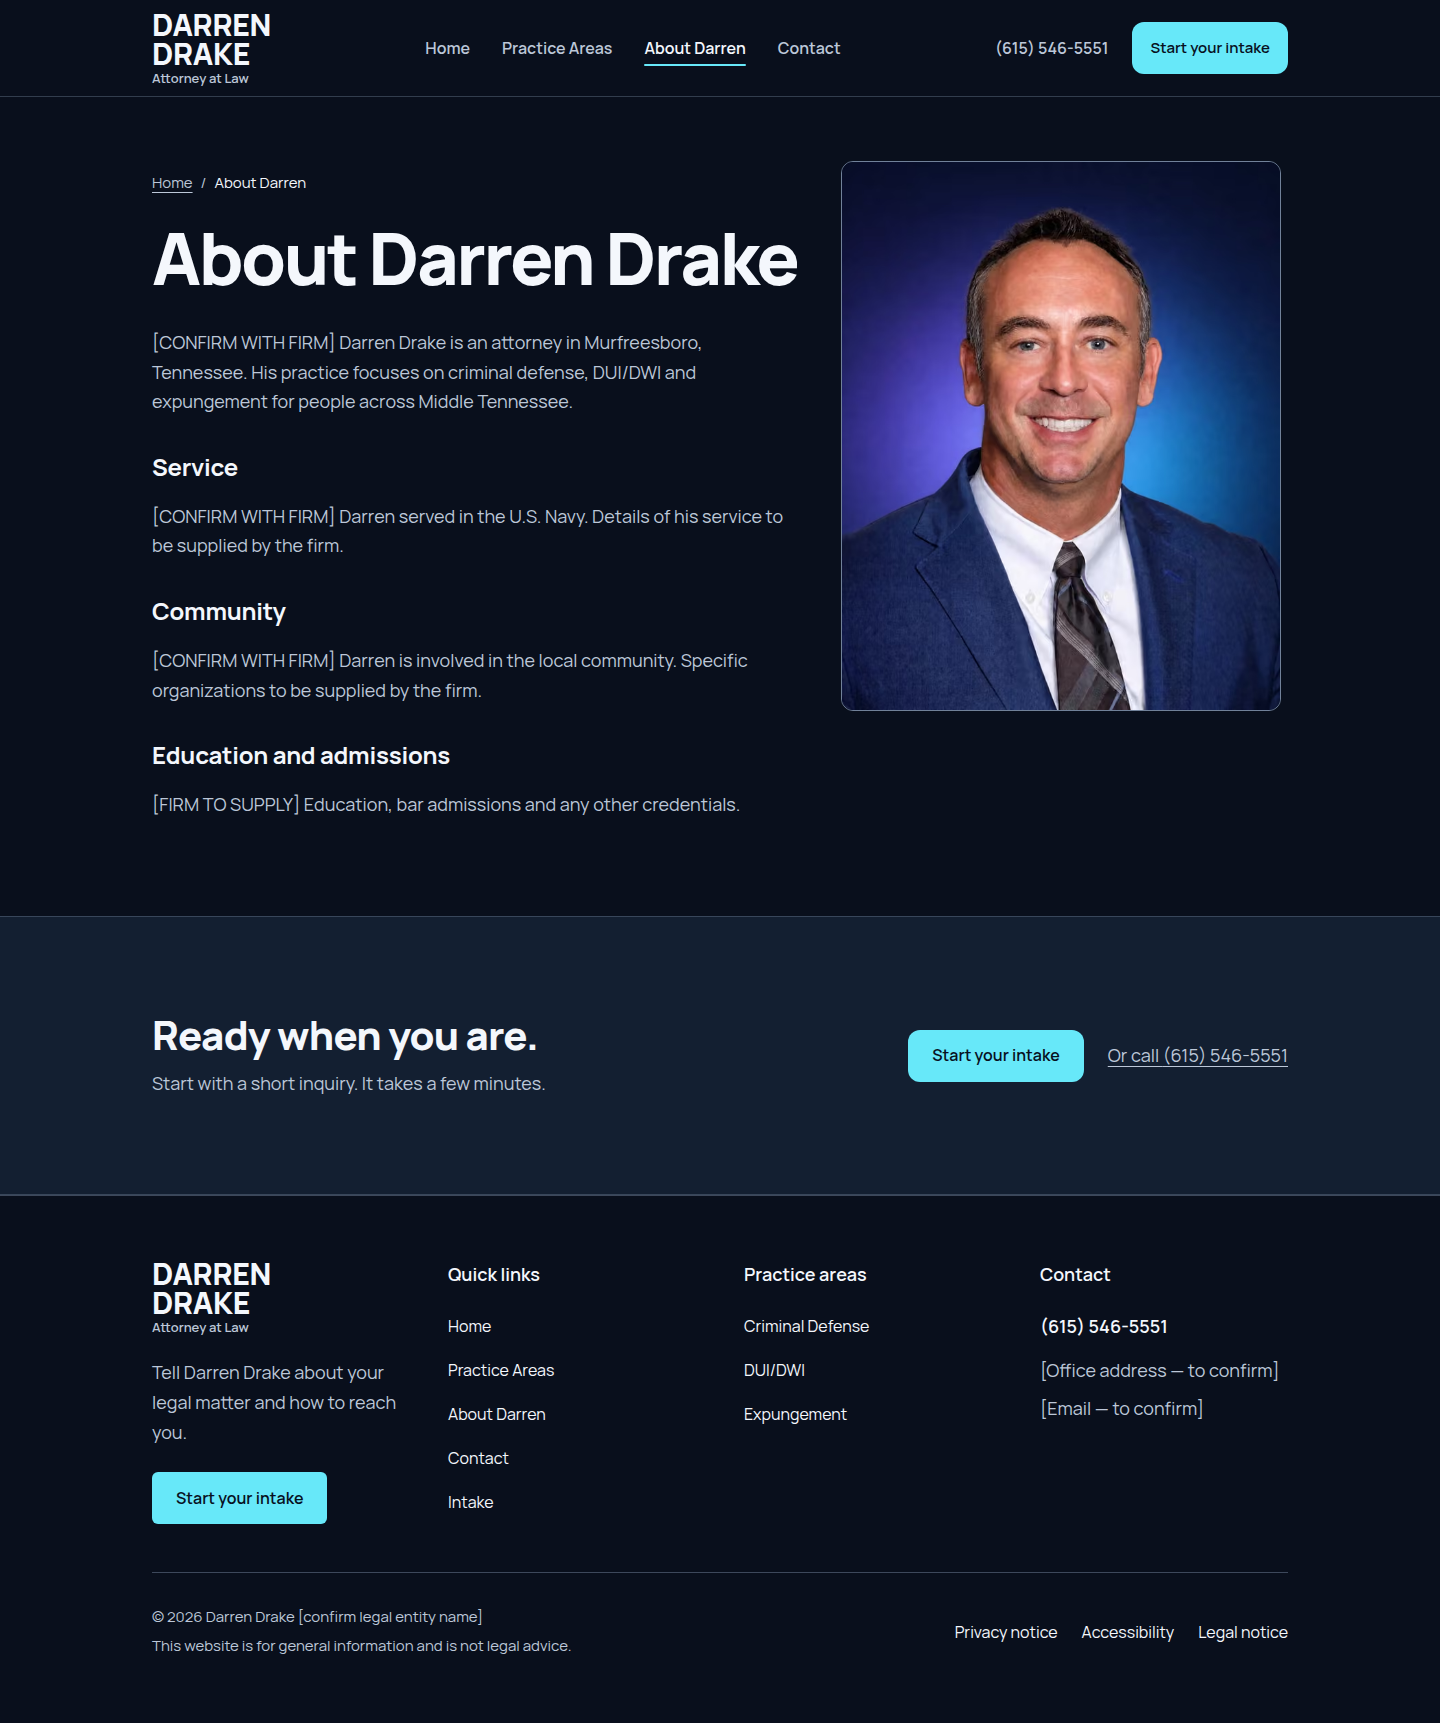
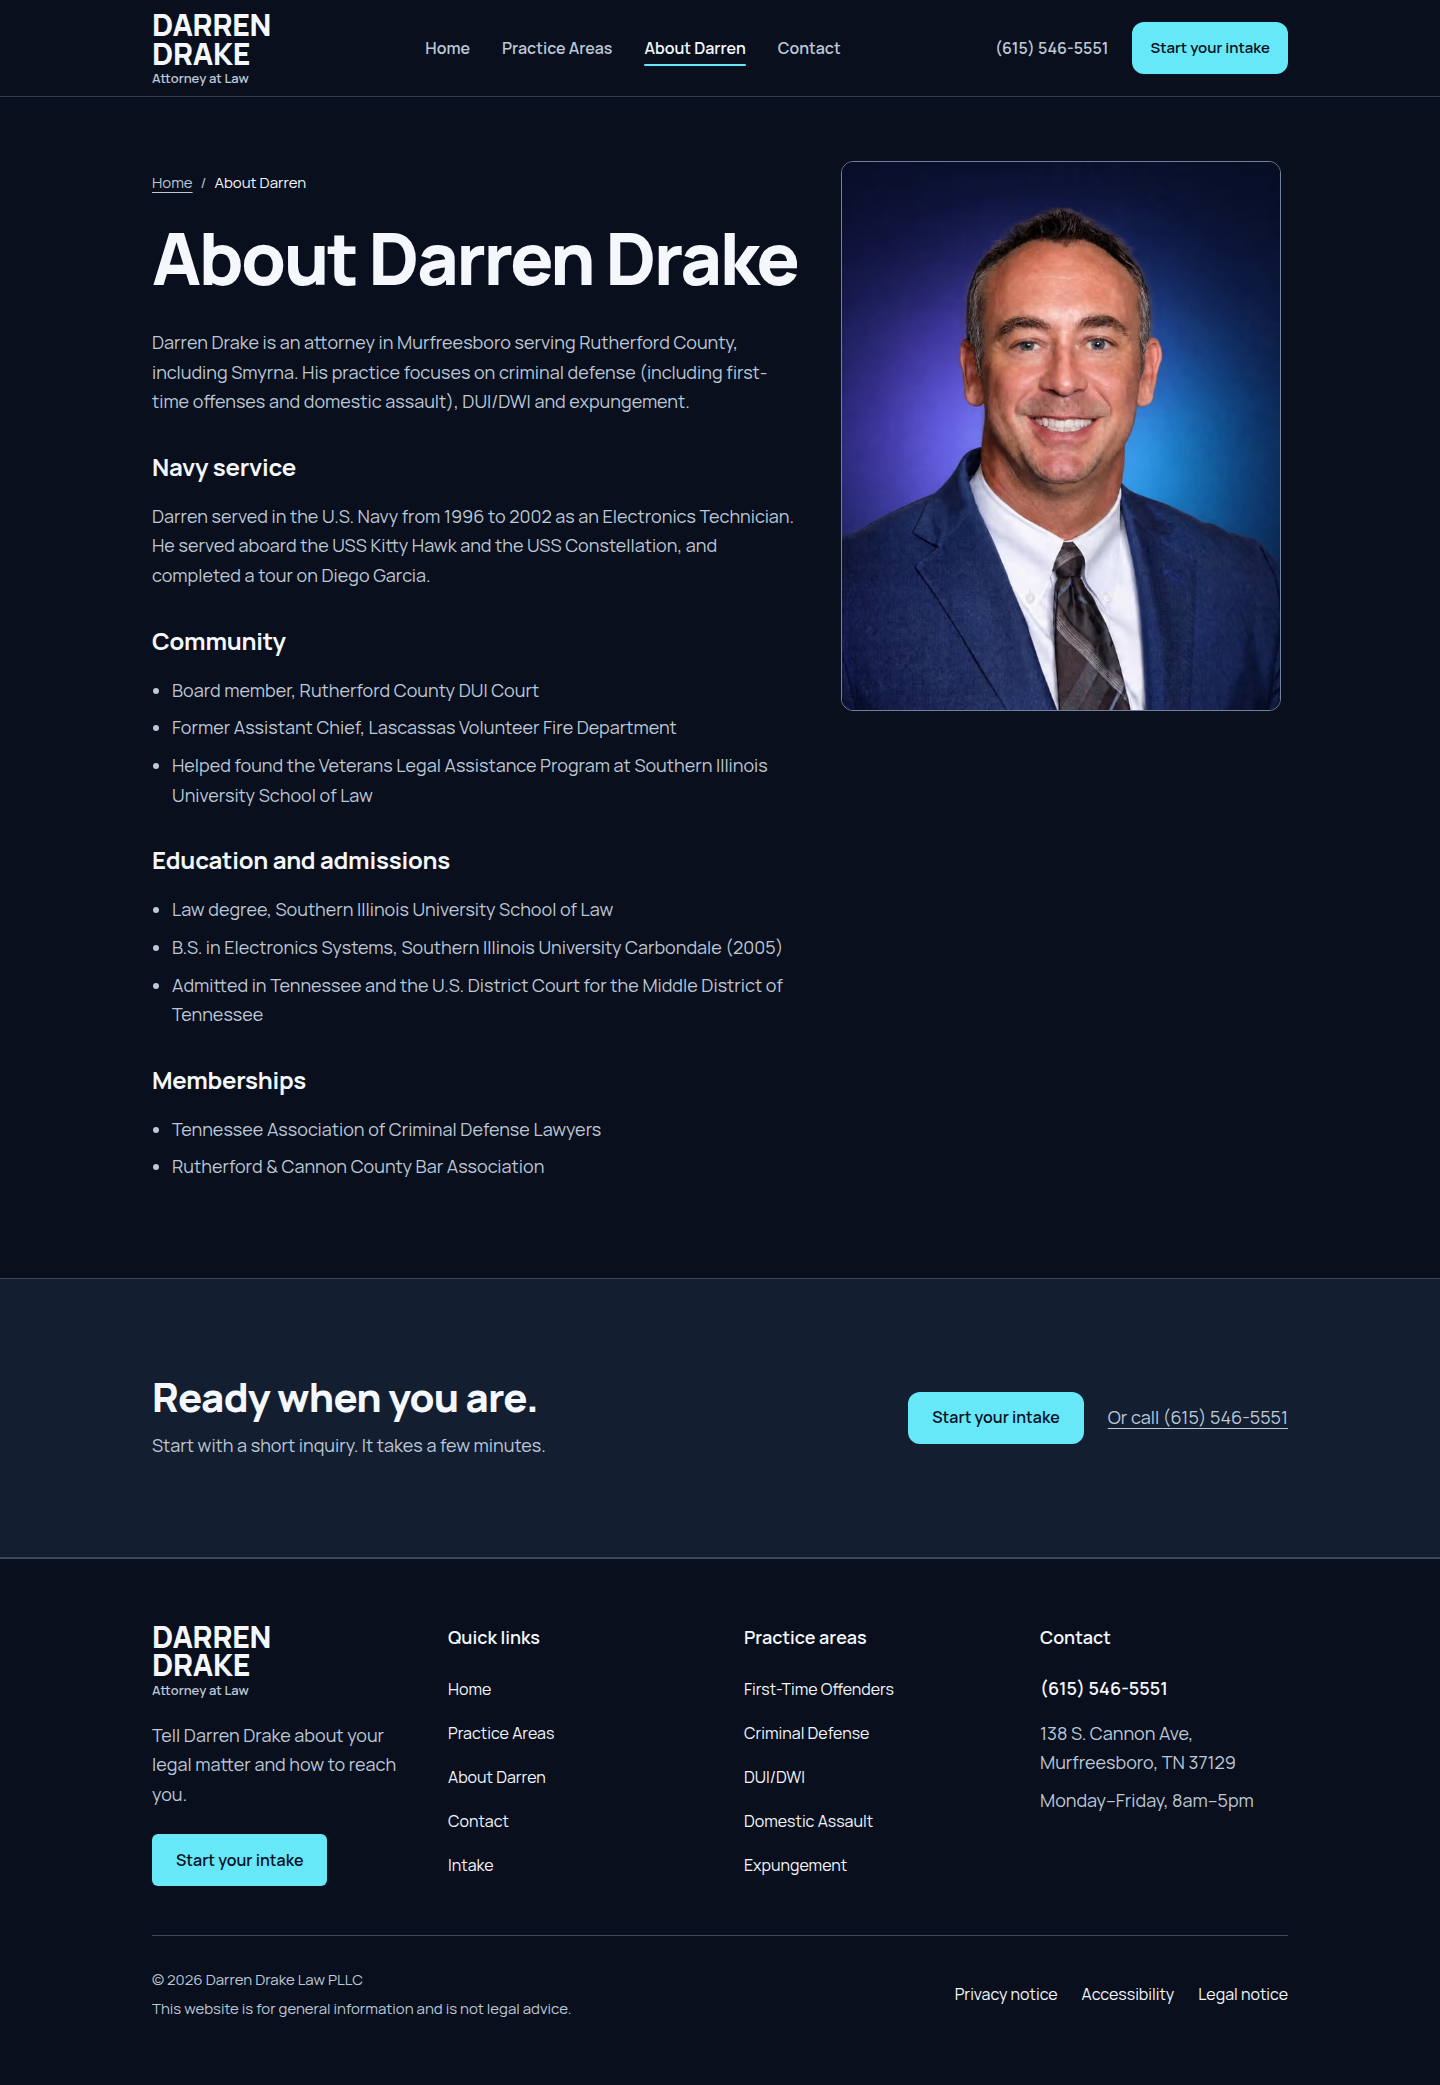
Apply Darren's answers: firm facts, About page, service area, callback note
Answers recorded in plans/for-darren/answers-2026-09-24.md; placeholders 37 -> 24.

Claude-Session: https://claude.ai/code/session_01RmP7U29AP4KGKMpKFwY9Zr

diff --git a/site/app/about/page.tsx b/site/app/about/page.tsx
@@ -5,7 +5,7 @@ import { Breadcrumbs, IntakeBand } from "@/components/Sections";
 
 export const metadata: Metadata = {
   title: "About Darren",
-  description: "About Darren Drake, attorney at law in Murfreesboro and Middle Tennessee.",
+  description: "About Darren Drake, attorney at law serving Murfreesboro, Rutherford County and Smyrna.",
 };
 
 export default function About() {
@@ -18,15 +18,31 @@ export default function About() {
             <h1 className="h1 mt-4">About Darren Drake</h1>
             <div className="measure mt-8 flex flex-col gap-5 text-muted">
               <p>
-                [CONFIRM WITH FIRM] Darren Drake is an attorney in Murfreesboro, Tennessee. His practice focuses on
-                criminal defense (including first-time offenses and domestic assault), DUI/DWI and expungement for people across Middle Tennessee.
+                Darren Drake is an attorney in Murfreesboro serving Rutherford County, including Smyrna. His practice
+                focuses on criminal defense (including first-time offenses and domestic assault), DUI/DWI and expungement.
               </p>
-              <h2 className="h3 mt-4 text-text">Service</h2>
-              <p>[CONFIRM WITH FIRM] Darren served in the U.S. Navy. Details of his service to be supplied by the firm.</p>
+              <h2 className="h3 mt-4 text-text">Navy service</h2>
+              <p>
+                Darren served in the U.S. Navy from 1996 to 2002 as an Electronics Technician. He served aboard the USS
+                Kitty Hawk and the USS Constellation, and completed a tour on Diego Garcia.
+              </p>
               <h2 className="h3 mt-4 text-text">Community</h2>
-              <p>[CONFIRM WITH FIRM] Darren is involved in the local community. Specific organizations to be supplied by the firm.</p>
+              <ul className="flex list-disc flex-col gap-2 pl-5">
+                <li>Board member, Rutherford County DUI Court</li>
+                <li>Former Assistant Chief, Lascassas Volunteer Fire Department</li>
+                <li>Helped found the Veterans Legal Assistance Program at Southern Illinois University School of Law</li>
+              </ul>
               <h2 className="h3 mt-4 text-text">Education and admissions</h2>
-              <p>[FIRM TO SUPPLY] Education, bar admissions and any other credentials.</p>
+              <ul className="flex list-disc flex-col gap-2 pl-5">
+                <li>Law degree, Southern Illinois University School of Law</li>
+                <li>B.S. in Electronics Systems, Southern Illinois University Carbondale (2005)</li>
+                <li>Admitted in Tennessee and the U.S. District Court for the Middle District of Tennessee</li>
+              </ul>
+              <h2 className="h3 mt-4 text-text">Memberships</h2>
+              <ul className="flex list-disc flex-col gap-2 pl-5">
+                <li>Tennessee Association of Criminal Defense Lawyers</li>
+                <li>Rutherford &amp; Cannon County Bar Association</li>
+              </ul>
             </div>
           </div>
           <div className="lg:col-span-5">

diff --git a/site/app/page.tsx b/site/app/page.tsx
@@ -12,7 +12,7 @@ export default function Home() {
         <Container className="grid items-center gap-12 lg:grid-cols-12 lg:gap-8">
           <div className="lg:col-span-7">
             <div className="hero-rise">
-              <p className="eyebrow">First-Time Offenders · DUI/DWI · Domestic Assault — Murfreesboro &amp; Middle Tennessee</p>
+              <p className="eyebrow">First-Time Offenders · DUI/DWI · Domestic Assault — Murfreesboro, Rutherford County &amp; Smyrna</p>
               <h1 id="hero-title" className="h1 mt-4 max-w-[12ch]">
                 Your next step starts with a conversation.
               </h1>
@@ -61,12 +61,12 @@ export default function Home() {
             </h2>
             <div className="measure mt-6 flex flex-col gap-4 text-muted">
               <p>
-                [CONFIRM WITH FIRM] Darren Drake is an attorney serving Murfreesboro and Middle Tennessee, with a practice
-                focused on criminal defense (including first-time offenses and domestic assault), DUI/DWI and expungement.
+                Darren Drake is an attorney in Murfreesboro serving Rutherford County, including Smyrna. His practice
+                focuses on criminal defense (including first-time offenses and domestic assault), DUI/DWI and expungement.
               </p>
               <p>
-                [CONFIRM WITH FIRM] Before practicing law, Darren served in the U.S. Navy. He stays involved in the local
-                community.
+                Before law school, Darren served six years in the U.S. Navy. He is a former Assistant Chief of the
+                Lascassas Volunteer Fire Department and serves on the board of the Rutherford County DUI Court.
               </p>
             </div>
             <Link href="/about/" className="link-action mt-6 inline-flex min-h-11 items-center font-semibold">

diff --git a/site/lib/site.ts b/site/lib/site.ts
@@ -11,11 +11,10 @@ export const PHONE_HREF = "tel:+16155465551";
 export const FIRM = {
   name: "Darren Drake",
   descriptor: "Attorney at Law",
-  legalName: "Darren Drake [confirm legal entity name]",
-  address: "[Office address — to confirm]",
-  hours: "[Office hours — to confirm]",
-  email: "[Email — to confirm]",
-  serviceArea: "Murfreesboro & Middle Tennessee",
+  legalName: "Darren Drake Law PLLC",
+  address: "138 S. Cannon Ave, Murfreesboro, TN 37129",
+  hours: "Monday–Friday, 8am–5pm",
+  serviceArea: "Murfreesboro, Rutherford County & Smyrna",
 } as const;
 
 export const NAV = [
@@ -58,7 +57,7 @@ export const PRACTICES: {
     slug: "criminal-defense",
     title: "Criminal Defense",
     icon: "briefcase",
-    summary: "Help for people facing criminal charges in Middle Tennessee.",
+    summary: "Help for people facing criminal charges in Rutherford County.",
     faq: [
       { q: "What should I do first if I have been charged?", a: "[FIRM TO SUPPLY]" },
       { q: "What information should I have ready when I reach out?", a: "[FIRM TO SUPPLY]" },
@@ -80,7 +79,7 @@ export const PRACTICES: {
     title: "Domestic Assault",
     icon: "shield",
     featured: true,
-    summary: "Help for people charged with domestic assault in Middle Tennessee.",
+    summary: "Help for people charged with domestic assault in Rutherford County.",
     faq: [
       { q: "What happens after a domestic assault arrest?", a: "[FIRM TO SUPPLY]" },
       { q: "What should I avoid doing while my case is open?", a: "[FIRM TO SUPPLY]" },
@@ -115,7 +114,7 @@ export const HOME_FAQ = [
   },
   {
     q: "What areas do you serve?",
-    a: "Murfreesboro and Middle Tennessee. [CONFIRM COUNTIES]",
+    a: "Murfreesboro, Smyrna and the rest of Rutherford County.",
   },
   {
     q: "Can I call instead?",

diff --git a/site/app/practice-areas/page.tsx b/site/app/practice-areas/page.tsx
@@ -4,7 +4,7 @@ import { IntakeBand, PageIntro, PracticeCards } from "@/components/Sections";
 
 export const metadata: Metadata = {
   title: "Practice Areas",
-  description: "First-time offenses, DUI/DWI, domestic assault, criminal defense and expungement help from Darren Drake in Murfreesboro and Middle Tennessee.",
+  description: "First-time offenses, DUI/DWI, domestic assault, criminal defense and expungement help from Darren Drake in Murfreesboro, Rutherford County and Smyrna.",
 };
 
 export default function PracticeAreas() {
@@ -12,7 +12,7 @@ export default function PracticeAreas() {
     <>
       <PageIntro
         title="Practice areas"
-        lead="Darren Drake helps people in Murfreesboro and Middle Tennessee with the matters below. [CONFIRM WITH FIRM]"
+        lead="Darren Drake helps people in Murfreesboro, Rutherford County and Smyrna with the matters below."
         crumbs={[{ href: "/", label: "Home" }, { label: "Practice Areas" }]}
       />
       <section aria-label="Practice area list" className="pb-14 lg:pb-24">

diff --git a/site/app/layout.tsx b/site/app/layout.tsx
@@ -8,11 +8,11 @@ import { StickyCta } from "@/components/StickyCta";
 
 export const metadata: Metadata = {
   title: {
-    default: "Darren Drake, Attorney at Law | Murfreesboro & Middle Tennessee",
+    default: "Darren Drake, Attorney at Law | Murfreesboro, Rutherford County & Smyrna",
     template: "%s | Darren Drake, Attorney at Law",
   },
   description:
-    "Darren Drake, attorney at law in Murfreesboro and Middle Tennessee. First-time offenses, DUI/DWI, domestic assault and other criminal defense. Start your intake or call (615) 546-5551.",
+    "Darren Drake, attorney at law serving Murfreesboro, Rutherford County and Smyrna. First-time offenses, DUI/DWI, domestic assault and other criminal defense. Start your intake or call (615) 546-5551.",
   metadataBase: new URL(SITE_URL),
   // Only the live site (SITE_ENV=production) may be indexed; previews stay out of search engines.
   robots: IS_PRODUCTION ? { index: true, follow: true } : { index: false, follow: false },

diff --git a/site/next.config.ts b/site/next.config.ts
@@ -3,7 +3,7 @@ import type { NextConfig } from "next";
 // Old ddrakelaw.com (WordPress) addresses -> new pages, one permanent (308) hop each.
 // Source: plans/signal-website-plan.md, Appendix B. Addresses that should report
 // "gone" (410) are handled in proxy.ts, because redirects() can't send 410.
-const JUVENILE_TARGET = "/practice-areas/criminal-defense/"; // D5 default until Darren decides
+const JUVENILE_TARGET = "/practice-areas/criminal-defense/"; // D5: the firm does not take juvenile cases (Darren, 24 Sep 2026)
 
 const OLD_TO_NEW: [string, string][] = [
   ["/areas-of-practice", "/practice-areas/"],

diff --git a/site/lib/contact-rules.ts b/site/lib/contact-rules.ts
@@ -18,9 +18,8 @@ export const CALLBACK_OPTIONS = [
   { value: "week", label: "Sometime this week" },
 ] as const;
 
-// Shown when "As soon as possible" is chosen. A response-time statement is a promise to
-// the public, so it stays marked until Darren confirms it (the placeholder guard blocks release).
-export const ASAP_NOTE = "We generally return calls within a day. [CONFIRM WITH DARREN]";
+// Shown when "As soon as possible" is chosen. Approved by Darren on 24 September 2026.
+export const ASAP_NOTE = "We generally return calls within a day.";
 
 export const CONTACT_MESSAGE_MAX = 1000;
 

diff --git a/site/components/ui/footer-section.tsx b/site/components/ui/footer-section.tsx
@@ -65,7 +65,7 @@ function FooterSection({ className }: { className?: string }) {
                 </a>
               </p>
               <p className="text-muted-foreground">{FIRM.address}</p>
-              <p className="text-muted-foreground">{FIRM.email}</p>
+              <p className="text-muted-foreground">{FIRM.hours}</p>
             </address>
           </div>
         </div>

diff --git a/site/app/contact/page.tsx b/site/app/contact/page.tsx
@@ -39,10 +39,6 @@ export default function Contact() {
                 <dt className="label text-text">Hours</dt>
                 <dd>{FIRM.hours}</dd>
               </div>
-              <div>
-                <dt className="label text-text">Email</dt>
-                <dd>{FIRM.email}</dd>
-              </div>
             </dl>
           </div>
         </Container>

diff --git a/plans/for-darren/answers-2026-09-24.md b/plans/for-darren/answers-2026-09-24.md
@@ -1,0 +1,59 @@
+# Darren's answers, 24 September 2026
+
+Darren answered these in person, through Quinn, in the Claude Code session. They replace the matching items in the review pack.
+
+## Firm facts (now on the site)
+
+| Item | Answer |
+|---|---|
+| Business name | Darren Drake Law PLLC |
+| Office address | 138 S. Cannon Ave, Murfreesboro, TN 37129. Clients visit, so the full address is shown. |
+| Office hours | Monday–Friday, 8am–5pm |
+| Public email | None shown |
+| Service area | Murfreesboro, Rutherford County and Smyrna. He takes cases in Rutherford County only. |
+| Juvenile cases (D5) | Not taken. The old Juvenile Defense page redirects to Criminal Defense. |
+| Callback note | Approved: "We generally return calls within a day." |
+
+## About Darren (now on the site)
+
+- **Navy:** U.S. Navy 1996–2002, Electronics Technician. Served aboard the USS Kitty Hawk and USS Constellation, with a tour on Diego Garcia.
+- **Education:**
+  - B.S. in Electronics Systems, SIU Carbondale (2005).
+  - Law degree, SIU School of Law (year left off at his request).
+- **Admissions:** Tennessee; U.S. District Court for the Middle District of Tennessee (no years).
+- **Community:**
+  - Board member, Rutherford County DUI Court.
+  - *Former* Assistant Chief, Lascassas Volunteer Fire Department.
+  - Helped found SIU's Veterans Legal Assistance Program.
+- **Memberships:** Tennessee Association of Criminal Defense Lawyers; Rutherford & Cannon County Bar Association.
+
+## Decisions
+
+| # | Decision | Answer |
+|---|---|---|
+| D1 | Leave WordPress | Yes. The old server stays untouched for 90 days, then is retired. |
+| D2 | Edited portrait | Approved for all uses: website, Google Business Profile and link previews. |
+| D6 | Reviews | Show the live Google star rating and review count, with a link to Google. No quotes. |
+| D7 | Case-management system | MyCase (8am). |
+| D8 | Who receives inquiries | Kelly Pittman, kpittman.lawoffice@gmail.com. She also asked for a text or Telegram message with a PDF of each inquiry (see open questions). |
+| D13 / D17 | Accounts | Darren sets up and pays for the accounts. Private previews behind a login are allowed. |
+
+## Still open
+
+1. **A second inquiry recipient.** Only Kelly is named. The plan needs at least two, so inquiries aren't missed when she is out.
+2. **Text/Telegram with the PDF.** Text messages and Telegram aren't a safe place for the details of someone's criminal matter. Recommended instead:
+   - the full inquiry by email, with a PDF attached;
+   - plus a text alert containing no details ("New website inquiry, check email").
+3. **Email address type.** Kelly's address is a personal Gmail account. A firm-controlled address (for example, the firm's Google Workspace) is safer for client information.
+4. **MyCase.** Check whether the firm's MyCase plan can receive website leads directly. Until then, email is the delivery route.
+5. **Live Google rating.** Needs:
+   - the firm's Google Business Profile;
+   - a Google Maps Platform key on Darren's account.
+
+   The legal checklist also flags ratings and reviews for Darren's ethics review before launch.
+6. **Still unanswered:**
+   - wording for the five practice pages and their FAQs;
+   - the privacy notice;
+   - the accessibility contact and review date;
+   - who is responsible for the site (legal notice);
+   - a licensed local photo for the home page.

diff --git a/site/HANDOFF.md b/site/HANDOFF.md
@@ -168,3 +168,15 @@ Lab speed test: LCP about 0.78 s, 228 KB total.
 - **Placement: option B (chosen 24 September 2026).** This is now the site's only form. It is on `/intake/`, where every "Start your intake" button leads (the form's heading is the page heading), and on `/contact/` next to the office details. The old intake form (`components/IntakeForm.tsx`, `lib/intake-rules.ts`, `/api/intake/`) was removed. As a result, the county and the next court date are no longer collected up front; the office asks on the callback. The options are compared in `printouts/Contact-Form-Options.pdf`.
 - **Needs confirmation:** the "As soon as possible" note ("We generally return calls within a day.") carries a `[CONFIRM WITH DARREN]` marker, so the placeholder guard blocks release until he approves it. There are now 37 placeholders in total.
 - **Tests:** the e2e suite has 24 checks. The form tests (errors, demo mode, test delivery, double-click, network failure, keyboard-only, axe) now run against the new form on `/intake/`, plus one check that `/contact/` uses the same form.
+
+## Update, 24 September 2026: Darren's answers applied
+
+Darren's facts and decisions are recorded in `plans/for-darren/answers-2026-09-24.md`, and the site now uses them:
+- the business name, address and hours (no public email);
+- "Murfreesboro, Rutherford County & Smyrna" as the service area;
+- the About page facts;
+- the approved callback note.
+
+The placeholder guard now reports 24 placeholders, down from 37. The remaining ones are the practice-page wording and FAQs, the privacy notice, the accessibility contact and date, the legal-notice responsibility line, and the licensed local photo.
+
+Inquiries go to Kelly Pittman: set `INTAKE_DESTINATION` to the email adapter when the firm's accounts exist. Still open: a second recipient, the text-alert approach, MyCase, and the live Google rating.
